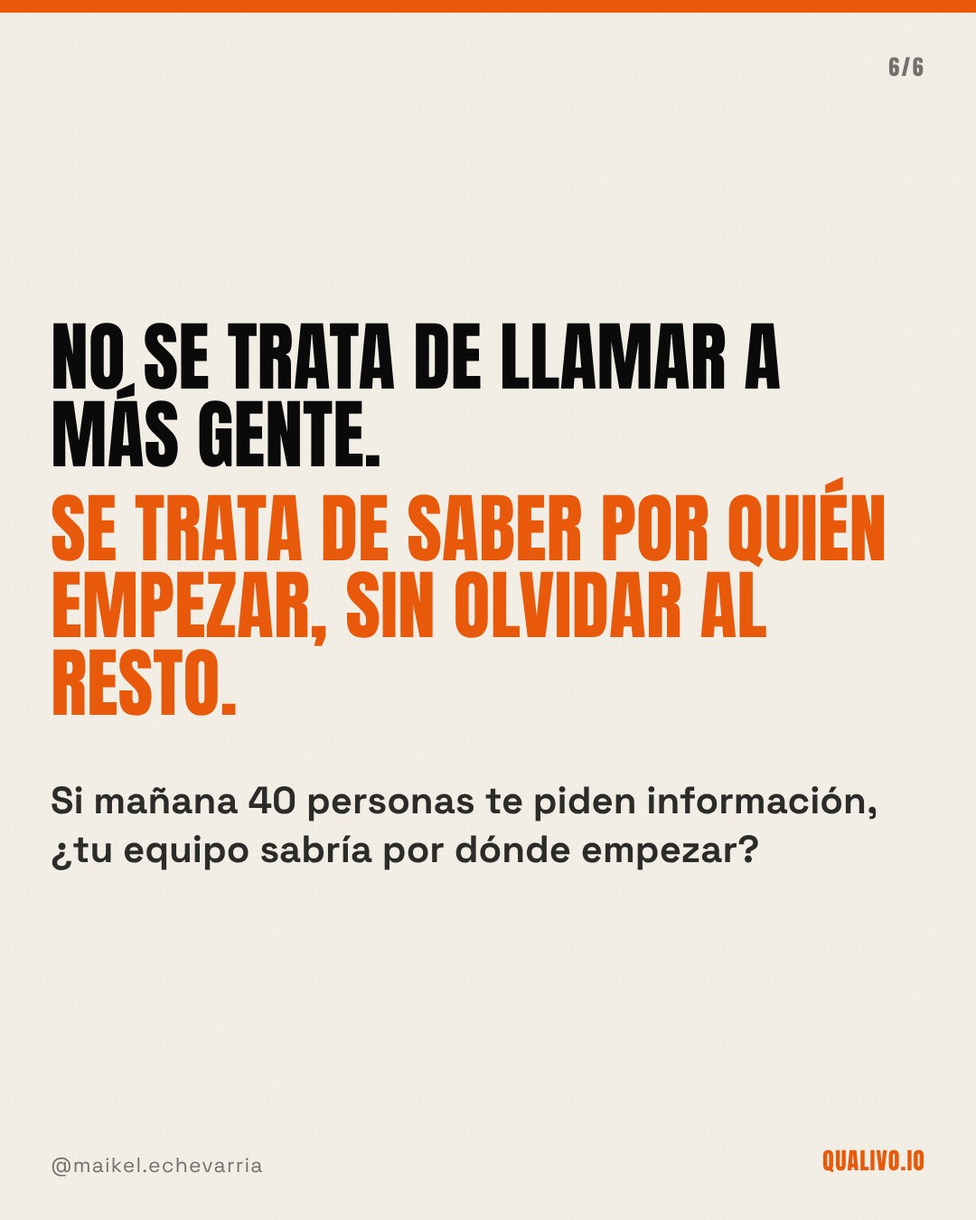
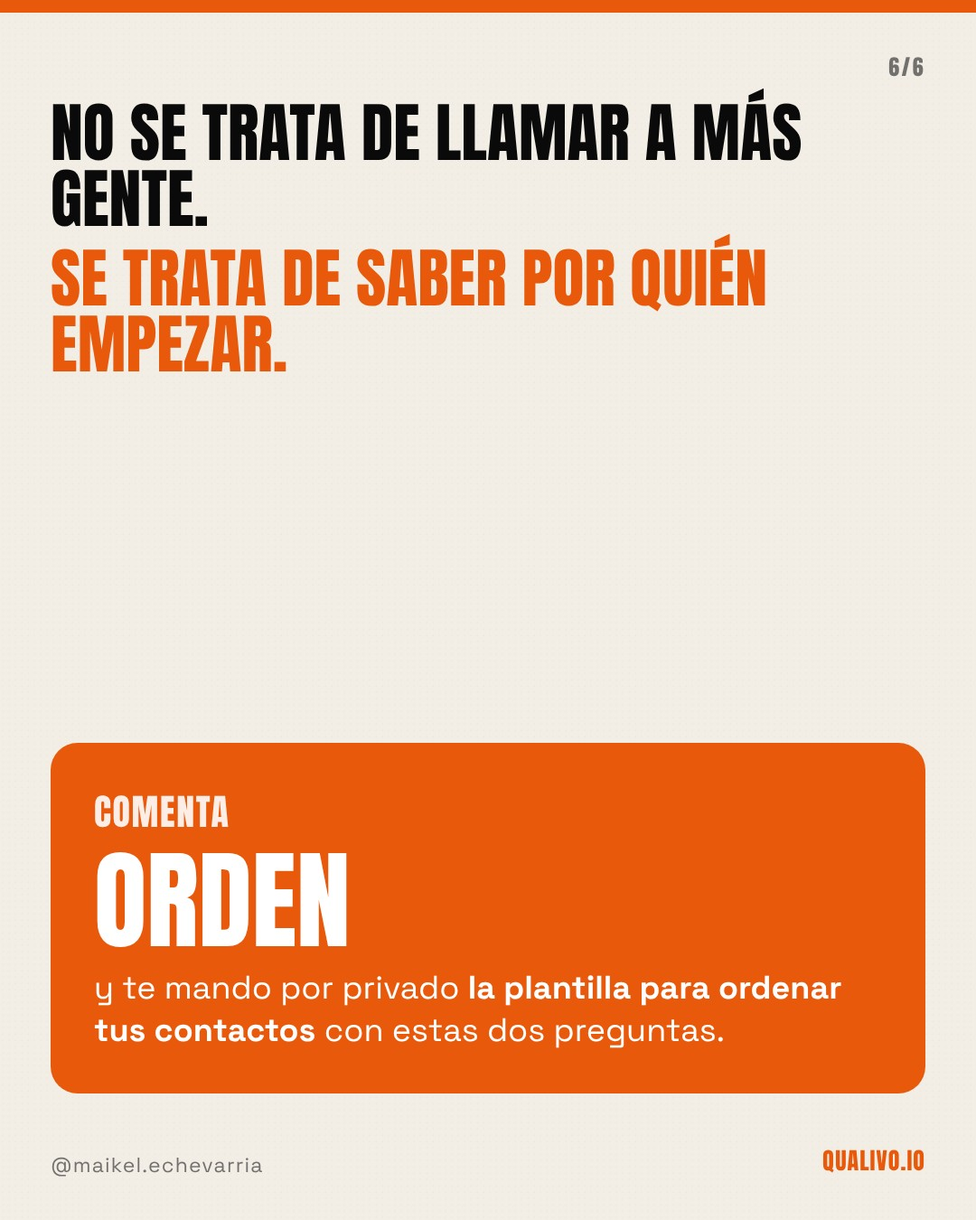
Microcápsulas 01-03 con portada llamativa y CTA «Comenta PALABRA»
Claude-Session: https://claude.ai/code/session_01MkLw1CM9nhHEYNrKFywYUs

diff --git a/content/redes/capsulas/01-prioriza-tus-leads/carrusel.html b/content/redes/capsulas/01-prioriza-tus-leads/carrusel.html
@@ -1,19 +1,7 @@
 <!doctype html><html lang="es"><head><meta charset="utf-8">
 <link rel="stylesheet" href="../../../infografias/2026-09-10/_base.css">
+<link rel="stylesheet" href="../_capsula.css">
 <style>
-body{padding:0;background:#555}
-.page{margin-bottom:20px}
-.prog{position:absolute;top:0;left:0;right:0;height:14px;background:rgba(128,128,128,.22)}
-.prog i{display:block;height:100%;background:#E8590C}
-.n{position:absolute;top:56px;right:56px;font-family:Anton;font-size:24px;letter-spacing:.1em;opacity:.55}
-.in{position:absolute;inset:0;padding:110px 56px 140px;display:flex;flex-direction:column}
-.h{font-family:Anton;font-size:84px;line-height:1.02;text-transform:uppercase}
-.h2{font-family:Anton;font-size:58px;line-height:1.05;text-transform:uppercase}
-.t{font-size:42px;line-height:1.3;margin-top:28px}
-.tinta .t{color:rgba(242,238,230,.86)} .crema .t{color:rgba(10,10,11,.86)}
-.t b{font-weight:700}
-.next{position:absolute;bottom:46px;right:230px;font-family:Anton;font-size:26px;color:#E8590C;letter-spacing:.06em}
-.mid{margin-top:auto;margin-bottom:auto}
 .per{border-left:8px solid #E8590C;padding:6px 0 6px 30px;font-size:40px;line-height:1.3;margin-top:34px}
 .per.g{border-color:rgba(10,10,11,.25)}
 .per b{font-family:Anton;font-weight:400;font-size:44px;text-transform:uppercase;display:block;margin-bottom:6px}
@@ -21,29 +9,26 @@ body{padding:0;background:#555}
 .cj{border:2px solid rgba(242,238,230,.18);border-radius:26px;padding:34px 38px}
 .cj .k{font-family:Anton;font-size:52px;text-transform:uppercase;color:#E8590C}
 .cj .tx{font-size:36px;line-height:1.35;margin-top:10px;color:rgba(242,238,230,.86)}
-.crm{background:#fff;color:#0A0A0B;border-radius:26px;overflow:hidden;box-shadow:0 30px 70px rgba(0,0,0,.18);font-family:-apple-system,"Segoe UI",Roboto,sans-serif;margin-top:46px}
-.crm .top{display:flex;align-items:center;padding:22px 28px;border-bottom:1px solid #EEE;font-size:22px;font-weight:600;color:#888}
-.crm .top b{color:#0A0A0B;margin-right:auto;font-size:24px}
-.row{display:flex;align-items:center;gap:24px;padding:40px 28px;border-bottom:1px solid #F1EFEA}
-.row:last-child{border:0}
-.lt{width:66px;height:66px;border-radius:16px;display:flex;align-items:center;justify-content:center;font-family:Anton;font-size:36px;flex:none}
-.A{background:#E8590C;color:#fff}.B{background:#FDE3D3;color:#C2410C}.C{background:#EFEAE0;color:#6B655B}.D{background:#F4F2EE;color:#AAA59B}
-.nm{font-size:36px;font-weight:700}.ws{font-size:26px;color:#6E6E6E;margin-top:4px}
-.tag{margin-left:auto;font-size:24px;font-weight:700;padding:10px 16px;border-radius:999px;background:#FDE3D3;color:#C2410C;white-space:nowrap}
-.tag.g{background:#F1EFEA;color:#6E6B63}
-.ej{font-size:22px;opacity:.55;margin-top:18px}
 .pasos{display:flex;flex-direction:column;gap:22px;margin-top:auto}
-.pa{flex:1;padding:36px!important;background:rgba(242,238,230,.06);border:2px solid rgba(242,238,230,.14);border-radius:22px;padding:26px}
+.pa{background:rgba(242,238,230,.06);border:2px solid rgba(242,238,230,.14);border-radius:22px;padding:36px}
 .pa .k{font-family:Anton;font-size:40px;letter-spacing:.06em;color:#E8590C}
 .pa .tx{font-size:38px;line-height:1.3;margin-top:8px;color:rgba(242,238,230,.9)}
+.pila{position:relative;margin-top:auto;height:520px}
+.pila .noti{position:absolute;left:0;right:0}
 </style></head><body>
 
 <div class="page tinta"><div class="prog"><i style="width:17%"></i></div><div class="n">1/6</div><div class="in">
-<div class="mid">
-<div class="h" style="font-size:104px">40 personas te piden información.</div>
-<div class="h" style="font-size:104px;color:#E8590C;margin-top:20px">¿A quién atiendes primero?</div>
-<div class="t" style="margin-top:44px">Spoiler: no todas están igual de cerca de comprar.</div>
-</div></div><div class="next">Pasa →</div><div class="firma">@maikel.echevarria</div><div class="web">QUALIVO.IO</div></div>
+<div class="h" style="font-size:96px">40 personas te piden información.</div>
+<div class="h" style="font-size:96px;color:#E8590C;margin-top:12px">¿A quién atiendes primero?</div>
+<div class="pila">
+<div class="noti" style="top:0;transform:scale(.88);opacity:.55"><div class="ic crm">Q</div><div><b>Nuevo contacto</b><span>«Info del curso, porfa»</span></div><small>9:02</small></div>
+<div class="noti" style="top:96px;transform:scale(.92);opacity:.7"><div class="ic">✆</div><div><b>Nuevo contacto</b><span>«¿Sigue disponible?»</span></div><small>9:05</small></div>
+<div class="noti" style="top:192px;transform:scale(.96);opacity:.85"><div class="ic crm">Q</div><div><b>Nuevo contacto</b><span>«¿Precio?»</span></div><small>9:06</small></div>
+<div class="noti" style="top:288px"><div class="ic">✆</div><div><b>Nuevo contacto</b><span>«Quiero empezar este mes»</span></div><small>9:07</small></div>
+<div class="noti" style="top:410px;background:#E8590C;color:#fff"><div class="ic" style="background:#fff;color:#E8590C">36</div><div><b style="color:#fff">36 contactos más</b><span style="color:#fff">esperando respuesta</span></div></div>
+<div class="peg" style="right:-10px;top:-40px">¿y ahora por cuál empiezo? 😵💫</div>
+</div>
+</div><div class="next">Pasa →</div><div class="firma">@maikel.echevarria</div><div class="web">QUALIVO.IO</div></div>
 
 <div class="page crema"><div class="prog"><i style="width:33%"></i></div><div class="n">2/6</div><div class="in">
 <div class="h">Dos personas te escriben el mismo día.</div>
@@ -63,7 +48,7 @@ body{padding:0;background:#555}
 
 <div class="page crema"><div class="prog"><i style="width:67%"></i></div><div class="n">4/6</div><div class="in">
 <div class="h" style="font-size:74px">Así queda la lista cuando la IA hace el primer <span class="nar">filtro.</span></div>
-<div class="crm">
+<div class="crm" style="margin-top:46px">
 <div class="top"><b>Por quién empezar hoy</b>academia</div>
 <div class="row"><div class="lt A">A</div><div><div class="nm">Laura</div><div class="ws">Encaja · quiere empezar ya · contesta</div></div><div class="tag">Llamar hoy</div></div>
 <div class="row"><div class="lt B">B</div><div><div class="nm">Marta</div><div class="ws">Encaja · aún no ha contestado</div></div><div class="tag g">Volver a escribir</div></div>
@@ -83,10 +68,13 @@ body{padding:0;background:#555}
 </div><div class="next">Pasa →</div><div class="firma">@maikel.echevarria</div><div class="web">QUALIVO.IO</div></div>
 
 <div class="page crema"><div class="prog"><i style="width:100%"></i></div><div class="n">6/6</div><div class="in">
-<div class="mid">
-<div class="h">No se trata de llamar a más gente.</div>
-<div class="h" style="color:#E8590C;margin-top:18px">Se trata de saber por quién empezar, sin olvidar al resto.</div>
-<div class="t" style="margin-top:60px"><b>Si mañana 40 personas te piden información, ¿tu equipo sabría por dónde empezar?</b></div>
-</div></div><div class="firma">@maikel.echevarria</div><div class="web">QUALIVO.IO</div></div>
+<div class="h" style="font-size:72px">No se trata de llamar a más gente.</div>
+<div class="h" style="color:#E8590C;margin-top:14px;font-size:72px">Se trata de saber por quién empezar.</div>
+<div class="cta">
+<div class="k">COMENTA</div>
+<div class="w">ORDEN</div>
+<div class="tx">y te mando por privado <b>la plantilla para ordenar tus contactos</b> con estas dos preguntas.</div>
+</div>
+</div><div class="firma">@maikel.echevarria</div><div class="web">QUALIVO.IO</div></div>
 
 </body></html>

diff --git a/content/redes/capsulas/03-meta-aprende-de-tus-ventas/carrusel.html b/content/redes/capsulas/03-meta-aprende-de-tus-ventas/carrusel.html
@@ -1,0 +1,80 @@
+<!doctype html><html lang="es"><head><meta charset="utf-8">
+<link rel="stylesheet" href="../../../infografias/2026-09-10/_base.css">
+<link rel="stylesheet" href="../_capsula.css">
+<style>
+.ads{margin-top:auto;position:relative;background:#fff;color:#1C1E21;border-radius:26px;font-family:-apple-system,"Segoe UI",Roboto,sans-serif;overflow:visible;box-shadow:0 30px 70px rgba(0,0,0,.35)}
+.ads .hd{display:flex;align-items:center;gap:14px;padding:22px 28px;border-bottom:1px solid #E4E6EB;font-size:24px;font-weight:600}
+.ads .hd i{width:34px;height:34px;border-radius:8px;background:#0866FF;display:inline-block}
+.ads .kp{display:flex}
+.ads .kp div{flex:1;padding:30px 28px;border-right:1px solid #E4E6EB}
+.ads .kp div:last-child{border:0}
+.ads small{display:block;font-size:22px;color:#65676B}
+.ads b{font-size:62px;font-weight:700;letter-spacing:-.02em}
+.ads .ok{color:#31A24C;font-size:24px;font-weight:600}
+.cam{display:flex;flex-direction:column;gap:0;margin-top:50px}
+.paso{display:flex;align-items:center;gap:26px;font-size:38px;padding:16px 0}
+.paso .d{width:56px;height:56px;border-radius:50%;background:#E8590C;color:#fff;font-family:Anton;font-size:28px;display:flex;align-items:center;justify-content:center;flex:none}
+.paso .d.g{background:rgba(242,238,230,.18);color:#F2EEE6}
+.paso .s{margin-left:auto;font-size:22px;font-family:Anton;letter-spacing:.06em;color:#E8590C}
+.vs{display:flex;gap:26px;margin-top:50px}
+.vs .c{flex:1;border-radius:26px;padding:34px;background:rgba(242,238,230,.06);border:2px solid rgba(242,238,230,.14)}
+.vs .c.w{border-color:#E8590C}
+.vs .k{font-family:Anton;font-size:32px;letter-spacing:.06em;color:rgba(242,238,230,.7)}
+.vs .num{font-family:Anton;font-size:92px;line-height:1;margin-top:10px}
+.vs .lb{font-size:28px;color:rgba(242,238,230,.75)}
+</style></head><body>
+
+<div class="page tinta"><div class="prog"><i style="width:17%"></i></div><div class="n">1/6</div><div class="in">
+<div class="h" style="font-size:96px">Tu campaña dice que va <span class="nar">genial.</span></div>
+<div class="ads">
+<div class="hd"><i></i>Administrador de anuncios · este mes</div>
+<div class="kp"><div><small>Resultados</small><b>87</b><div class="ok">▲ 32 %</div></div><div><small>Coste por resultado</small><b>9,20 €</b><div class="ok">▼ 18 %</div></div></div>
+<div class="peg nar" style="right:-6px;bottom:-40px;transform:rotate(-5deg)">¿y cuántos compraron? 🤔</div>
+</div>
+<div class="ej" style="margin-top:56px;color:#F2EEE6">Ejemplo ilustrativo.</div>
+</div><div class="next">Pasa →</div><div class="firma">@maikel.echevarria</div><div class="web">QUALIVO.IO</div></div>
+
+<div class="page crema"><div class="prog"><i style="width:33%"></i></div><div class="n">2/6</div><div class="in">
+<div class="h">Meta te trae lo que le <span class="nar">pides.</span></div>
+<div class="t">Si le dices que el éxito es un formulario, te trae gente que rellena formularios.</div>
+<div class="t" style="margin-top:auto"><b>Aunque luego no conteste, no venga o no compre.</b></div>
+</div><div class="next">Pasa →</div><div class="firma">@maikel.echevarria</div><div class="web">QUALIVO.IO</div></div>
+
+<div class="page tinta"><div class="prog"><i style="width:50%"></i></div><div class="n">3/6</div><div class="in">
+<div class="h" style="font-size:76px">Nosotros le contamos lo que pasa <span class="nar">después.</span></div>
+<div class="cam">
+<div class="paso"><div class="d g">1</div>Rellena el formulario</div>
+<div class="paso"><div class="d">2</div>Hablamos con él<span class="s">SE LO DECIMOS</span></div>
+<div class="paso"><div class="d">3</div>Reserva una reunión<span class="s">SE LO DECIMOS</span></div>
+<div class="paso"><div class="d">4</div>Viene y le encaja<span class="s">SE LO DECIMOS</span></div>
+<div class="paso"><div class="d">5</div>Compra, y por cuánto<span class="s">SE LO DECIMOS</span></div>
+<div class="paso"><div class="d g">✕</div>No le encaja<span class="s">TAMBIÉN</span></div>
+</div>
+</div><div class="next">Pasa →</div><div class="firma">@maikel.echevarria</div><div class="web">QUALIVO.IO</div></div>
+
+<div class="page crema"><div class="prog"><i style="width:67%"></i></div><div class="n">4/6</div><div class="in">
+<div class="h">Y lo hace el sistema <span class="nar">solo.</span></div>
+<div class="t">Cada vez que alguien avanza en tu CRM, Meta se entera.</div>
+<div class="t" style="margin-top:auto">Así aprende a buscar <b>gente que compra</b>, no gente que hace clic.</div>
+</div><div class="next">Pasa →</div><div class="firma">@maikel.echevarria</div><div class="web">QUALIVO.IO</div></div>
+
+<div class="page tinta"><div class="prog"><i style="width:83%"></i></div><div class="n">5/6</div><div class="in">
+<div class="h" style="font-size:76px">Y tú comparas campañas por <span class="nar">clientes.</span></div>
+<div class="vs">
+<div class="c"><div class="k">CAMPAÑA A</div><div class="num">50</div><div class="lb">contactos</div><div class="num" style="font-size:72px;margin-top:20px">1</div><div class="lb">cliente</div></div>
+<div class="c w"><div class="k" style="color:#E8590C">CAMPAÑA B</div><div class="num">20</div><div class="lb">contactos</div><div class="num" style="font-size:72px;margin-top:20px;color:#E8590C">4</div><div class="lb">clientes</div></div>
+</div>
+<div class="t" style="margin-top:auto">Mirando solo los contactos, habrías apagado <b style="color:#F2EEE6">la que vende.</b></div>
+<div class="ej" style="color:#F2EEE6">Ejemplo ilustrativo.</div>
+</div><div class="next">Pasa →</div><div class="firma">@maikel.echevarria</div><div class="web">QUALIVO.IO</div></div>
+
+<div class="page crema"><div class="prog"><i style="width:100%"></i></div><div class="n">6/6</div><div class="in">
+<div class="h" style="font-size:72px">¿Tus campañas aprenden de tus contactos… o de tus <span class="nar">ventas?</span></div>
+<div class="cta">
+<div class="k">COMENTA</div>
+<div class="w">VENTAS</div>
+<div class="tx">y te mando por privado <b>la checklist</b> para que tus campañas aprendan de quién compra.</div>
+</div>
+</div><div class="firma">@maikel.echevarria</div><div class="web">QUALIVO.IO</div></div>
+
+</body></html>

diff --git a/content/redes/capsulas/02-contesta-aunque-no-estes/carrusel.html b/content/redes/capsulas/02-contesta-aunque-no-estes/carrusel.html
@@ -1,0 +1,73 @@
+<!doctype html><html lang="es"><head><meta charset="utf-8">
+<link rel="stylesheet" href="../../../infografias/2026-09-10/_base.css">
+<link rel="stylesheet" href="../_capsula.css">
+<style>
+.lock{margin-top:auto;position:relative;background:linear-gradient(160deg,#2B2D33,#111216);border-radius:46px;padding:60px 40px 50px;border:2px solid rgba(255,255,255,.08)}
+.lock .hora{font-family:-apple-system,"Segoe UI",Roboto,sans-serif;font-size:150px;font-weight:300;color:#fff;text-align:center;line-height:1}
+.lock .dia{font-family:-apple-system,"Segoe UI",Roboto,sans-serif;font-size:30px;color:rgba(255,255,255,.75);text-align:center;margin:6px 0 34px}
+.cara{display:flex;gap:30px;margin-top:46px}
+.cara .c{flex:1;border-radius:24px;padding:30px;font-size:34px;line-height:1.3}
+.c1{background:rgba(10,10,11,.06)}.c2{background:#E8590C;color:#fff}
+.c .k{font-family:Anton;font-size:34px;letter-spacing:.04em;margin-bottom:8px}
+</style></head><body>
+
+<div class="page tinta"><div class="prog"><i style="width:17%"></i></div><div class="n">1/6</div><div class="in">
+<div class="h" style="font-size:92px">Te escriben un viernes a las 21:14.</div>
+<div class="h" style="font-size:92px;color:#E8590C;margin-top:10px">¿Quién contesta?</div>
+<div class="lock">
+<div class="hora">21:14</div><div class="dia">viernes</div>
+<div class="noti"><div class="ic">✆</div><div><b>WhatsApp · nuevo contacto</b><span>«Hola, ¿os quedan plazas para enero?»</span></div><small>ahora</small></div>
+<div class="peg" style="left:30px;bottom:-34px;transform:rotate(3deg)">tu equipo, cenando 🍕</div>
+</div>
+</div><div class="next">Pasa →</div><div class="firma">@maikel.echevarria</div><div class="web">QUALIVO.IO</div></div>
+
+<div class="page crema"><div class="prog"><i style="width:33%"></i></div><div class="n">2/6</div><div class="in">
+<div class="h">El lunes a las 9:00 la llamas.</div>
+<div class="h" style="color:#E8590C;margin-top:14px">Ya se ha apuntado en otro sitio.</div>
+<div class="t" style="margin-top:auto">No era un mal contacto.<br><b>Llegó cuando no había nadie.</b></div>
+</div><div class="next">Pasa →</div><div class="firma">@maikel.echevarria</div><div class="web">QUALIVO.IO</div></div>
+
+<div class="page tinta"><div class="prog"><i style="width:50%"></i></div><div class="n">3/6</div><div class="in">
+<div class="h" style="font-size:72px">Nosotros dejamos que conteste la <span class="nar">IA.</span></div>
+<div class="wa" style="margin-top:40px">
+<div class="hd"><div class="av">A</div><div><b>Academia</b><small>en línea</small></div></div>
+<div class="wall">
+<div class="bub suyo">Hola, ¿os quedan plazas para enero?<span class="hh">21:14</span></div>
+<div class="bub mio"><span class="ia">IA</span><br>¡Hola, Laura! Sí, quedan. ¿Es para empezar en enero o lo estás mirando para más adelante?<span class="hh">21:15</span></div>
+<div class="bub suyo">En enero, si puede ser 🙂<span class="hh">21:16</span></div>
+<div class="bub mio"><span class="ia">IA</span><br>Perfecto. ¿Te va bien que te lo expliquemos el lunes a las 10:00 o a las 12:30?<span class="hh">21:16</span></div>
+<div class="bub suyo">A las 10<span class="hh">21:17</span></div>
+</div></div>
+<div class="ej">Ejemplo ilustrativo.</div>
+</div><div class="next">Pasa →</div><div class="firma">@maikel.echevarria</div><div class="web">QUALIVO.IO</div></div>
+
+<div class="page crema"><div class="prog"><i style="width:67%"></i></div><div class="n">4/6</div><div class="in">
+<div class="h">Lo que hace la <span class="nar">IA.</span></div>
+<div class="lista">
+<div class="it"><div class="mk">01</div><div>Contesta en minutos, también de noche y en fin de semana. <b>De 8:00 a 21:30.</b></div></div>
+<div class="it"><div class="mk">02</div><div>Lee lo que puso en el formulario y entiende qué necesita.</div></div>
+<div class="it"><div class="mk">03</div><div>Le ofrece <b>huecos reales de tu agenda</b> y deja la cita reservada.</div></div>
+</div>
+</div><div class="next">Pasa →</div><div class="firma">@maikel.echevarria</div><div class="web">QUALIVO.IO</div></div>
+
+<div class="page tinta"><div class="prog"><i style="width:83%"></i></div><div class="n">5/6</div><div class="in">
+<div class="h">Y lo que no hace <span class="nar">nunca.</span></div>
+<div class="lista">
+<div class="it"><div class="mk">✕</div><div><b>No da precios.</b> Eso lo hablas tú.</div></div>
+<div class="it"><div class="mk">✕</div><div><b>No promete resultados.</b></div></div>
+<div class="it"><div class="mk">✕</div><div><b>Si piden hablar con una persona o algo suena raro,</b> se calla y te pasa la conversación.</div></div>
+</div>
+<div class="t" style="margin-top:auto">La IA no vende por ti. <b style="color:#F2EEE6">Hace que nadie se quede esperando hasta el lunes.</b></div>
+</div><div class="next">Pasa →</div><div class="firma">@maikel.echevarria</div><div class="web">QUALIVO.IO</div></div>
+
+<div class="page crema"><div class="prog"><i style="width:100%"></i></div><div class="n">6/6</div><div class="in">
+<div class="h" style="font-size:72px">¿A qué hora llegó tu último <span class="nar">contacto?</span></div>
+<div class="t">¿Y cuánto tardó alguien en contestarle?</div>
+<div class="cta">
+<div class="k">COMENTA</div>
+<div class="w">AGENTE</div>
+<div class="tx">y te mando por privado <b>las reglas que le damos a la IA</b>: qué contesta, qué no y cuándo te pasa la conversación.</div>
+</div>
+</div><div class="firma">@maikel.echevarria</div><div class="web">QUALIVO.IO</div></div>
+
+</body></html>

diff --git a/content/redes/capsulas/_capsula.css b/content/redes/capsulas/_capsula.css
@@ -1,0 +1,56 @@
+@import url('https://fonts.googleapis.com/css2?family=Caveat:wght@700&display=block');
+body{padding:0;background:#555}
+.page{margin-bottom:20px}
+.prog{position:absolute;top:0;left:0;right:0;height:14px;background:rgba(128,128,128,.22)}
+.prog i{display:block;height:100%;background:#E8590C}
+.n{position:absolute;top:56px;right:56px;font-family:Anton;font-size:24px;letter-spacing:.1em;opacity:.55}
+.in{position:absolute;inset:0;padding:110px 56px 140px;display:flex;flex-direction:column}
+.h{font-family:Anton;font-size:84px;line-height:1.02;text-transform:uppercase}
+.t{font-size:42px;line-height:1.3;margin-top:28px}
+.tinta .t{color:rgba(242,238,230,.86)} .crema .t{color:rgba(10,10,11,.86)}
+.t b{font-weight:700}
+.next{position:absolute;bottom:46px;right:230px;font-family:Anton;font-size:26px;color:#E8590C;letter-spacing:.06em}
+.mid{margin-top:auto;margin-bottom:auto}
+.ej{font-size:22px;opacity:.55;margin-top:18px}
+/* pegatina escrita a mano */
+.peg{position:absolute;font-family:Caveat,cursive;font-weight:700;color:#0A0A0B;background:#F4CC38;padding:14px 26px;border-radius:10px;transform:rotate(-4deg);box-shadow:0 12px 30px rgba(0,0,0,.35);font-size:46px;line-height:1.05;z-index:5}
+.peg.nar{background:#E8590C;color:#fff}
+/* notificaciones tipo iPhone */
+.noti{background:rgba(245,245,245,.95);color:#111;border-radius:30px;padding:22px 26px;display:flex;gap:20px;align-items:center;font-family:-apple-system,"Segoe UI",Roboto,sans-serif;box-shadow:0 14px 40px rgba(0,0,0,.35)}
+.noti .ic{width:62px;height:62px;border-radius:15px;background:#25D366;color:#fff;font-size:34px;font-weight:700;display:flex;align-items:center;justify-content:center;flex:none}
+.noti .ic.crm{background:#E8590C}
+.noti b{font-size:24px;display:block}
+.noti span{font-size:24px;color:#333}
+.noti small{margin-left:auto;align-self:flex-start;font-size:20px;color:#888}
+/* tarjeta tipo app */
+.crm{background:#fff;color:#0A0A0B;border-radius:26px;overflow:hidden;box-shadow:0 30px 70px rgba(0,0,0,.18);font-family:-apple-system,"Segoe UI",Roboto,sans-serif}
+.crm .top{display:flex;align-items:center;padding:22px 28px;border-bottom:1px solid #EEE;font-size:22px;font-weight:600;color:#888}
+.crm .top b{color:#0A0A0B;margin-right:auto;font-size:24px}
+.row{display:flex;align-items:center;gap:24px;padding:36px 28px;border-bottom:1px solid #F1EFEA}
+.row:last-child{border:0}
+.lt{width:66px;height:66px;border-radius:16px;display:flex;align-items:center;justify-content:center;font-family:Anton;font-size:36px;flex:none}
+.A{background:#E8590C;color:#fff}.B{background:#FDE3D3;color:#C2410C}.C{background:#EFEAE0;color:#6B655B}.D{background:#F4F2EE;color:#AAA59B}
+.nm{font-size:34px;font-weight:700}.ws{font-size:25px;color:#6E6E6E;margin-top:4px}
+.tag{margin-left:auto;font-size:24px;font-weight:700;padding:10px 16px;border-radius:999px;background:#FDE3D3;color:#C2410C;white-space:nowrap}
+.tag.g{background:#F1EFEA;color:#6E6B63}
+/* CTA final */
+.cta{margin-top:auto;background:#E8590C;color:#fff;border-radius:30px;padding:46px 48px}
+.cta .k{font-family:Anton;font-size:40px;letter-spacing:.04em;opacity:.9}
+.cta .w{font-family:Anton;font-size:120px;line-height:1;margin:8px 0 14px}
+.cta .tx{font-size:36px;line-height:1.3}
+.cta .tx b{font-weight:700}
+/* listas */
+.lista{display:flex;flex-direction:column;gap:30px;margin-top:56px}
+.it{display:flex;gap:28px;align-items:flex-start;font-size:40px;line-height:1.28}
+.it .mk{font-family:Anton;font-size:44px;color:#E8590C;width:56px;flex:none}
+.it b{font-weight:700}
+/* whatsapp */
+.wa{background:#EFEAE2;border-radius:30px;overflow:hidden;font-family:-apple-system,"Segoe UI",Roboto,sans-serif;box-shadow:0 30px 70px rgba(0,0,0,.35)}
+.wa .hd{background:#F6F6F6;display:flex;align-items:center;gap:16px;padding:18px 24px;border-bottom:1px solid #DDD;color:#000}
+.wa .av{width:52px;height:52px;border-radius:50%;background:#E8590C;color:#fff;display:flex;align-items:center;justify-content:center;font-weight:700;font-size:24px}
+.wa .hd b{font-size:24px;display:block}.wa .hd small{font-size:18px;color:#777}
+.wa .wall{padding:24px 20px 28px;display:flex;flex-direction:column;gap:14px}
+.bub{max-width:82%;padding:14px 18px 10px;border-radius:16px;font-size:27px;line-height:1.35;color:#000;box-shadow:0 1px 1px rgba(0,0,0,.08)}
+.mio{align-self:flex-end;background:#DCF8C6}.suyo{align-self:flex-start;background:#fff}
+.hh{display:block;font-size:16px;color:#8C8C8C;text-align:right;margin-top:4px}
+.ia{display:inline-block;font-size:15px;font-weight:700;color:#E8590C;letter-spacing:.06em;margin-bottom:4px}

diff --git a/content/redes/capsulas/02-contesta-aunque-no-estes/texto.md b/content/redes/capsulas/02-contesta-aunque-no-estes/texto.md
@@ -1,0 +1,23 @@
+# Microcápsula 02 · Te escriben un viernes a las 21:14
+
+Operativo hoy: agente de WhatsApp (`api/_agente.js`), ventana de 8:00 a 21:30 (`api/_horario.js`), huecos reales del calendario y reserva; pasa a una persona con precio, queja o si lo piden. La conversación es un ejemplo.
+
+## Texto para Instagram y LinkedIn
+
+Viernes, 21:14. Alguien te escribe: «Hola, ¿os quedan plazas para enero?».
+
+Tu equipo está cenando. Normal.
+
+El lunes a las 9:00 la llamas. Ya se ha apuntado en otro sitio.
+
+No era un mal contacto. Llegó cuando no había nadie.
+
+Nosotros eso lo resolvemos con IA. Contesta en minutos, de 8:00 a 21:30, también el fin de semana. Entiende qué necesita esa persona y le ofrece huecos reales de tu agenda para hablar.
+
+Y hay tres cosas que no hace nunca: no da precios, no promete resultados y, si alguien pide hablar con una persona o algo suena raro, se calla y te pasa la conversación.
+
+La IA no vende por ti. Hace que nadie se quede esperando hasta el lunes.
+
+¿A qué hora llegó tu último contacto? ¿Y cuánto tardó alguien en contestarle?
+
+👉 Comenta AGENTE y te mando por privado las reglas que le damos a la IA: qué contesta, qué no y cuándo te pasa la conversación.

diff --git a/content/redes/capsulas/03-meta-aprende-de-tus-ventas/texto.md b/content/redes/capsulas/03-meta-aprende-de-tus-ventas/texto.md
@@ -1,0 +1,19 @@
+# Microcápsula 03 · Tu campaña dice que va genial
+
+Operativo hoy: eventos a Meta por etapa del CRM (Contacted, Schedule, Qualified = reunión celebrada con encaje, Converted con importe, Disqualified), `api/_tratos.js`, `api/senales-meta.js`. Las cifras del panel y de las campañas A/B son un ejemplo.
+
+## Texto para Instagram y LinkedIn
+
+Tu campaña dice que va genial: 87 resultados, el coste por resultado bajando.
+
+Pero, ¿cuántos de esos compraron?
+
+Meta te trae lo que le pides. Si le dices que el éxito es un formulario, te trae gente que rellena formularios. Aunque luego no conteste, no venga o no compre.
+
+Nosotros le contamos lo que pasa después. Cada vez que alguien avanza en el CRM (hablamos con él, reserva, viene y le encaja, compra y por cuánto, o no le encaja), el sistema se lo dice a Meta. Solo, sin que nadie tenga que acordarse.
+
+Así Meta aprende a buscar gente que compra, no gente que hace clic. Y tú puedes comparar tus campañas por clientes, no por contactos.
+
+¿Tus campañas aprenden de tus contactos… o de tus ventas?
+
+👉 Comenta VENTAS y te mando por privado la checklist para que tus campañas aprendan de quién compra.

diff --git a/content/redes/capsulas/README.md b/content/redes/capsulas/README.md
@@ -1,0 +1,11 @@
+# Microcápsulas · Qualivo Growth System
+
+Piezas cortas (6 láminas) que enseñan una capacidad del sistema que **funciona hoy**, contada desde lo que cambia en la empresa del cliente. Identidad de @maikel.echevarria (`_base.css` + `_capsula.css`).
+
+**Regla del CTA (3-nov, según la competencia: Fede Caball 29/30, Jaime D. Torres 27/30, Pau Llambí, BlueHackers, Impulso):** la última lámina y el texto del post terminan igual: «👉 Comenta PALABRA y te mando por privado [recurso concreto]». Una palabra corta en mayúsculas, un recurso útil, entrega por mensaje directo. La automatización comentario → mensaje la monta Automatización (`utm_campaign=<palabra>`, etiqueta en el CRM).
+
+| # | Pieza | Palabra | Recurso que hay que tener listo |
+|---|---|---|---|
+| 01 | ¿A quién atiendes primero? | ORDEN | Plantilla para ordenar contactos con «¿encaja?» y «¿tiene interés?» |
+| 02 | Te escriben un viernes a las 21:14 | AGENTE | Reglas del agente de WhatsApp: qué contesta, qué no y cuándo pasa la conversación |
+| 03 | Tu campaña dice que va genial | VENTAS | Checklist para que las campañas aprendan de quién compra |

diff --git a/content/redes/capsulas/01-prioriza-tus-leads/texto.md b/content/redes/capsulas/01-prioriza-tus-leads/texto.md
@@ -22,3 +22,5 @@ Con eso, la IA lee cada solicitud, ordena la lista y prepara el siguiente paso d
 No se trata de conseguir más contactos. Se trata de aprovechar mejor los que ya tienes.
 
 Si mañana 40 personas te piden información, ¿tu equipo sabría por dónde empezar?
+
+👉 Comenta ORDEN y te mando por privado la plantilla para ordenar tus contactos con estas dos preguntas.
